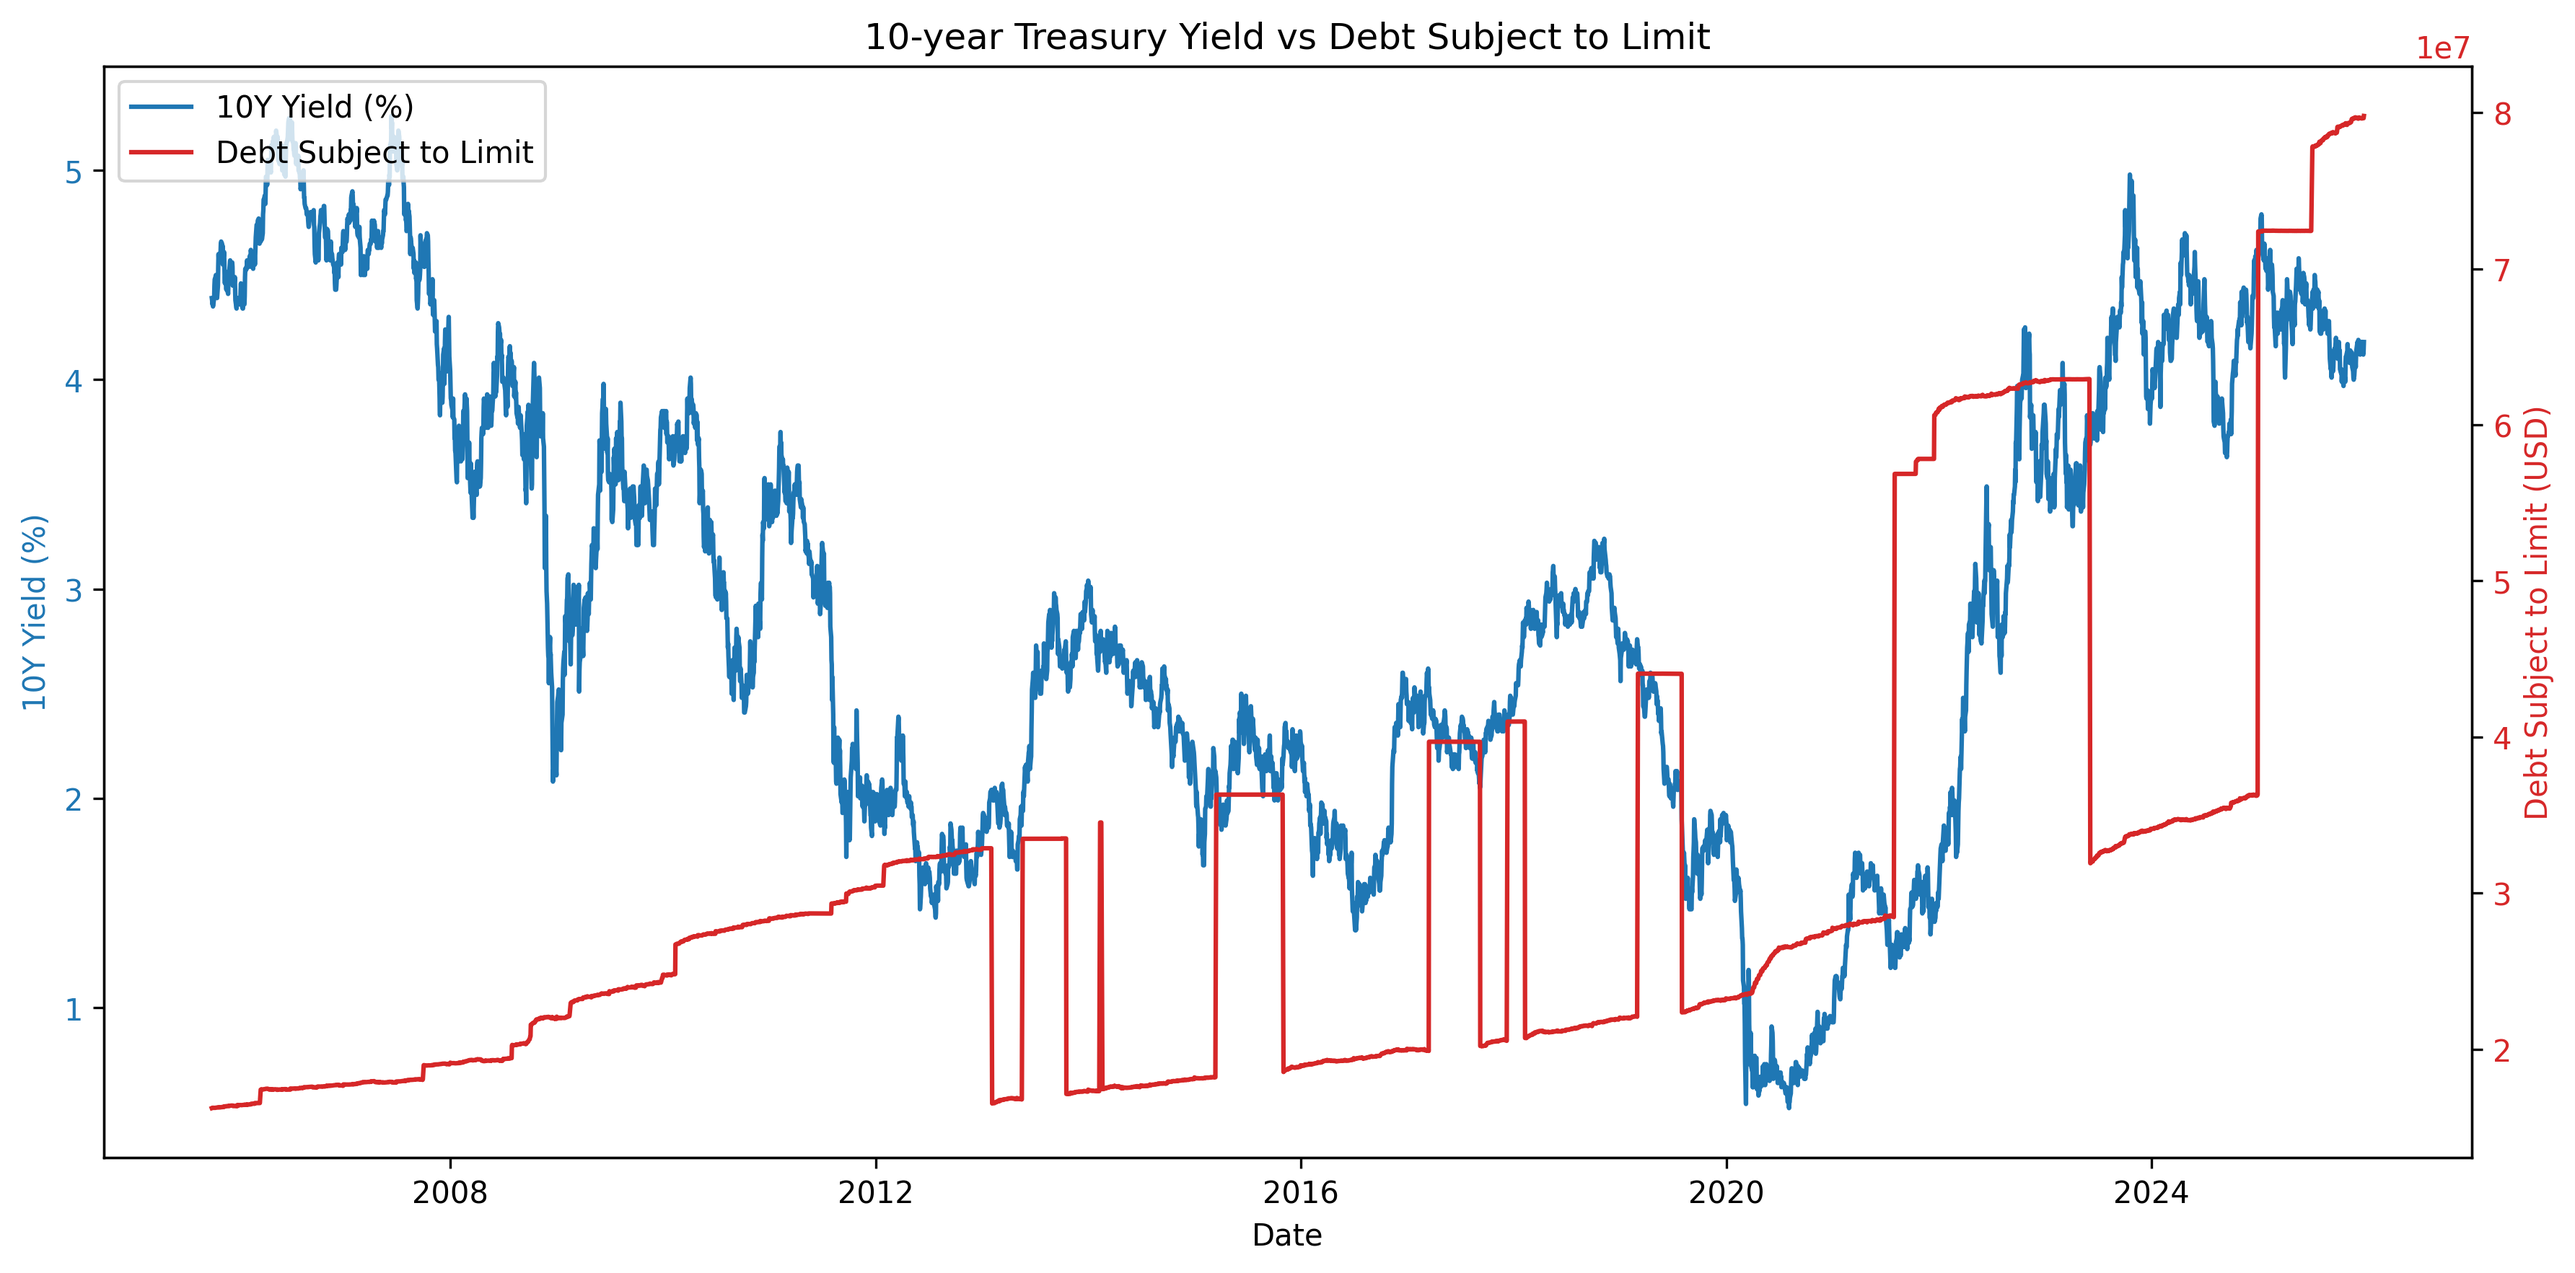
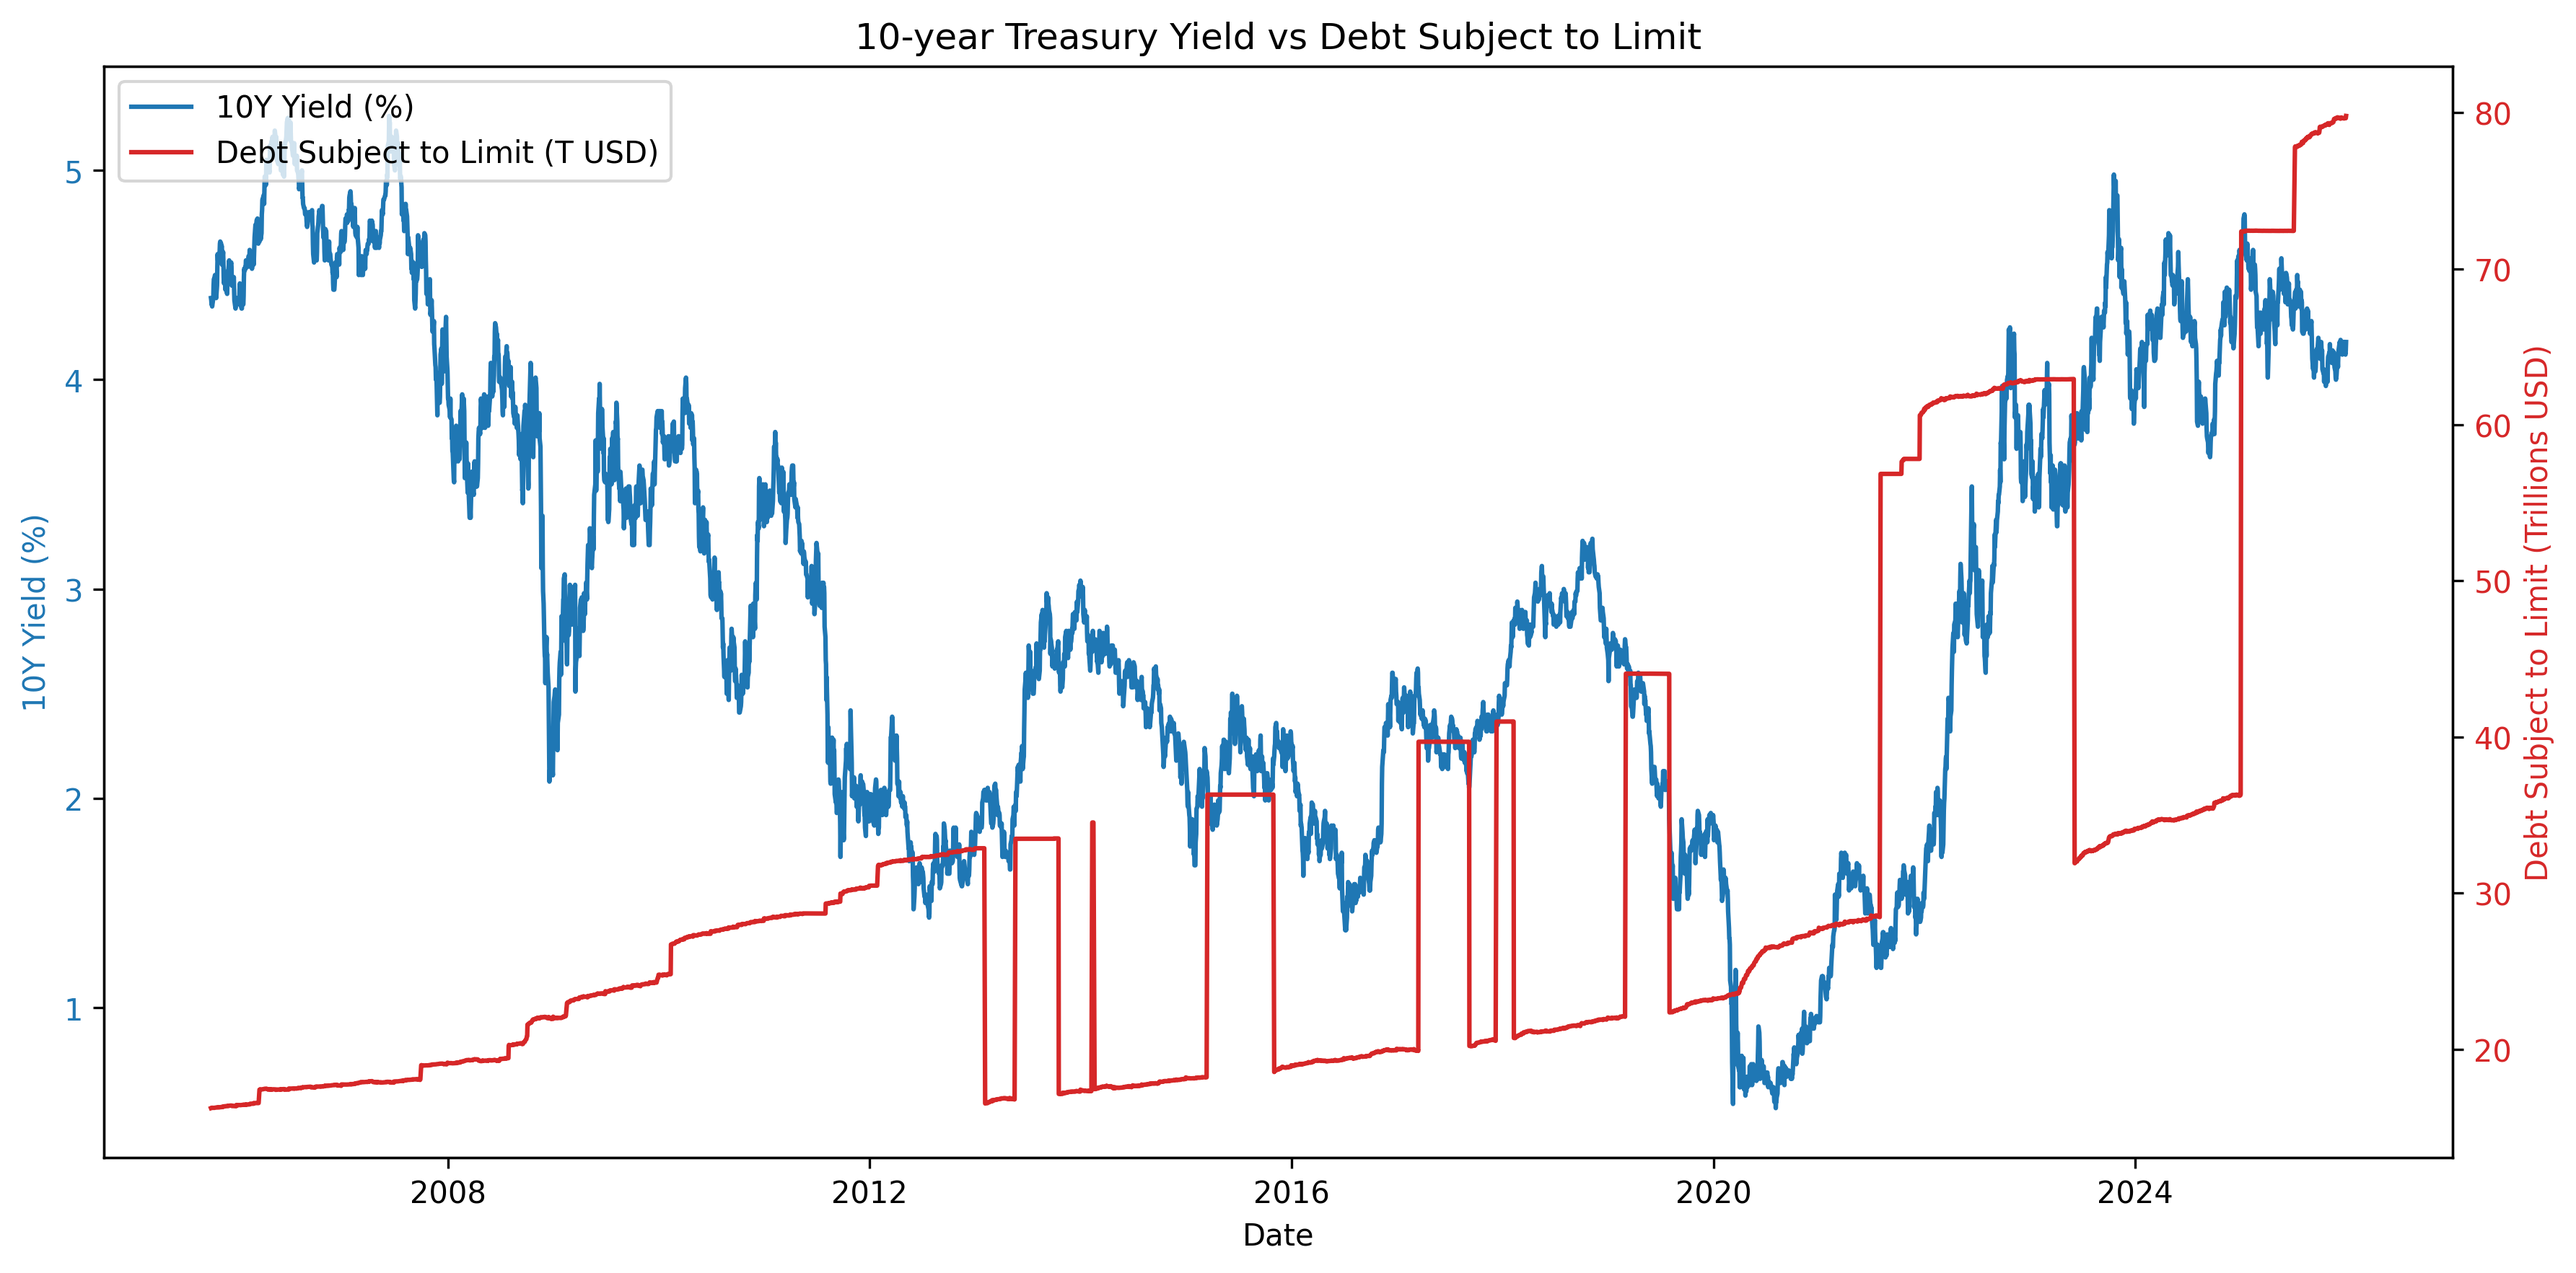
fix data aggregation and plotting and tests

diff --git a/tests/test_fiscal_data_call.py b/tests/test_fiscal_data_call.py
@@ -28,11 +28,13 @@ def test_parse_debt_subject_to_limit_filters_and_coerces():
         {
             "record_date": "2024-01-01",
             "debt_subject_to_limit": "34,000.5",
+            "debt_catg": "Debt Subject to Limit",
             "statutory_debt_limit": "35,000",
             "total_public_debt_outstanding": "33000",
         },
         {"record_date": "", "debt_subject_to_limit": "100.0"},  # missing date dropped
         {"record_date": "2024-01-02", "debt_subject_to_limit": ""},  # missing value dropped
+        {"record_date": "2024-01-03", "debt_subject_to_limit": "10", "debt_catg": "Other"},  # filtered by category
     ]
 
     cleaned = parse_debt_subject_to_limit(records)
@@ -55,8 +57,9 @@ def test_parse_debt_subject_to_limit_raises_on_bad_date():
 
 def test_parse_debt_subject_to_limit_supports_close_today_bal():
     records = [
-        {"record_date": "2024-01-01", "close_today_bal": "10"},
-        {"record_date": "2024-01-01", "close_today_bal": "5"},
+        {"record_date": "2024-01-01", "close_today_bal": "10", "debt_catg": "Debt Subject to Limit"},
+        {"record_date": "2024-01-01", "close_today_bal": "5", "debt_catg": "Debt Subject to Limit"},
+        {"record_date": "2024-01-01", "close_today_bal": "7", "debt_catg": "Other"},
     ]
     cleaned = parse_debt_subject_to_limit(records)
     assert cleaned == [
@@ -72,11 +75,13 @@ def test_get_debt_subject_to_limit_df_fetches_and_caches(monkeypatch, tmp_path):
             "record_date": "2024-01-01",
             "debt_subject_to_limit_amt": "34000.0",
             "statutory_debt_limit_amt": "35000",
+            "debt_catg": "Debt Subject to Limit",
         },
         {
             "record_date": "2024-01-02",
             "debt_subject_to_limit": "34100.0",
             "total_public_debt_outstanding_amt": "33900",
+            "debt_catg": "Debt Subject to Limit",
         },
     ]
 
@@ -93,6 +98,7 @@ def test_get_debt_subject_to_limit_df_fetches_and_caches(monkeypatch, tmp_path):
         {
             "date": [date(2024, 1, 1), date(2024, 1, 2)],
             "debt_subject_to_limit": [34000.0, 34100.0],
+            "debt_subject_to_limit_trillions": [0.034, 0.0341],
             "statutory_debt_limit": [35000.0, np.nan],
             "total_public_debt_outstanding": [np.nan, 33900.0],
         }
@@ -168,7 +174,13 @@ def test_fetch_debt_subject_to_limit_handles_query_only_next(monkeypatch):
             assert "page[number]" in params
             return DummyResponse(
                 {
-                    "data": [{"record_date": "2024-01-01", "debt_subject_to_limit": "1"}],
+                    "data": [
+                        {
+                            "record_date": "2024-01-01",
+                            "debt_subject_to_limit": "1",
+                            "debt_catg": "Debt Subject to Limit",
+                        }
+                    ],
                     "links": {"next": "&page[number]=2&page[size]=1"},
                 }
             )
@@ -176,7 +188,13 @@ def test_fetch_debt_subject_to_limit_handles_query_only_next(monkeypatch):
         assert url.endswith("debt_subject_to_limit?page[number]=2&page[size]=1")
         return DummyResponse(
             {
-                "data": [{"record_date": "2024-01-02", "close_today_bal": "2"}],
+                "data": [
+                    {
+                        "record_date": "2024-01-02",
+                        "close_today_bal": "2",
+                        "debt_catg": "Debt Subject to Limit",
+                    }
+                ],
                 "links": {"next": None},
             }
         )
@@ -185,3 +203,15 @@ def test_fetch_debt_subject_to_limit_handles_query_only_next(monkeypatch):
 
     records = fiscal_data_call.fetch_debt_subject_to_limit()
     assert len(records) == 2
+
+
+def test_load_debt_cache_df_backfills_trillions(tmp_path):
+    csv_path = tmp_path / "treasury_debt_subject_to_limit.csv"
+    pd.DataFrame(
+        {"date": [pd.Timestamp("2024-01-01")], "debt_subject_to_limit": [34000.0]}
+    ).to_csv(csv_path, index=False)
+
+    loaded = load_debt_cache_df(csv_path)
+
+    assert "debt_subject_to_limit_trillions" in loaded.columns
+    assert loaded["debt_subject_to_limit_trillions"].iloc[0] == 0.034

diff --git a/fiscal_data_call.py b/fiscal_data_call.py
@@ -14,6 +14,7 @@ from dotenv import load_dotenv
 
 FISCAL_BASE_URL = "https://api.fiscaldata.treasury.gov/services/api/fiscal_service"
 DEBT_ENDPOINT = "/v1/accounting/dts/debt_subject_to_limit"
+DEBT_TOTAL_CATEGORY = "Debt Subject to Limit"
 
 
 def get_fiscal_api_key(env_var="FISCAL_API_KEY"):
@@ -87,7 +88,11 @@ def _get_field(row: dict, aliases):
 
 
 def parse_debt_subject_to_limit(records):
-    """Normalize Treasury debt rows to {date, debt_subject_to_limit, ...} dicts."""
+    """Normalize Treasury debt rows to {date, debt_subject_to_limit, ...} dicts.
+
+    The endpoint returns multiple categories per date; we keep only the total
+    category (Debt Subject to Limit) to avoid stacking components and adjustments.
+    """
     cleaned = []
     for row in records:
         raw_date = row.get("record_date")
@@ -99,6 +104,10 @@ def parse_debt_subject_to_limit(records):
                 "close_today_bal",  # present in table III-C
             ],
         )
+        debt_category = (row.get("debt_catg") or "").strip()
+
+        if debt_category and debt_category != DEBT_TOTAL_CATEGORY:
+            continue  # keep only the consolidated total row per date
 
         if not raw_date or raw_debt in (None, "", "null"):
             continue
@@ -167,6 +176,11 @@ def load_debt_cache_df(csv_path: Path) -> pd.DataFrame:
         raise ValueError("Cache DF missing required columns")
     if df["date"].isna().any() or df["debt_subject_to_limit"].isna().any():
         raise ValueError("Cache DF contains missing date/debt_subject_to_limit")
+
+    # Backfill derived column for older cache files.
+    if "debt_subject_to_limit_trillions" not in df.columns:
+        df["debt_subject_to_limit_trillions"] = df["debt_subject_to_limit"] / 1_000_000
+
     df = df.sort_values("date").reset_index(drop=True)
     return df
 
@@ -178,6 +192,10 @@ def save_debt_cache(df: pd.DataFrame, csv_path: Path, meta_path: Path):
         raise ValueError("Refusing to cache DF missing required columns")
     if df["date"].isna().any() or df["debt_subject_to_limit"].isna().any():
         raise ValueError("Refusing to cache DF with missing date/debt_subject_to_limit")
+
+    if "debt_subject_to_limit_trillions" not in df.columns:
+        df = df.copy()
+        df["debt_subject_to_limit_trillions"] = df["debt_subject_to_limit"] / 1_000_000
 
     max_dt = pd.to_datetime(df["date"]).max()
     if pd.isna(max_dt):
@@ -228,7 +246,7 @@ def get_debt_subject_to_limit_df(cache_ttl_seconds=86400, cache_dir="cache", pag
 
         df = pd.DataFrame(cleaned)
         if df.duplicated(subset="date").any():
-            agg_map = {"debt_subject_to_limit": "sum"}
+            agg_map = {"debt_subject_to_limit": "max"}
             if "statutory_debt_limit" in df.columns:
                 agg_map["statutory_debt_limit"] = "max"
             if "total_public_debt_outstanding" in df.columns:
@@ -237,6 +255,9 @@ def get_debt_subject_to_limit_df(cache_ttl_seconds=86400, cache_dir="cache", pag
                 if col in df.columns:
                     agg_map[col] = "max"
             df = df.groupby("date", as_index=False).agg(agg_map)
+
+        # Values are reported in millions of USD; provide a trillions helper column for plotting.
+        df["debt_subject_to_limit_trillions"] = df["debt_subject_to_limit"] / 1_000_000
 
         df = df.sort_values("date").reset_index(drop=True)
 

diff --git a/plot.py b/plot.py
@@ -33,6 +33,10 @@ def build_combined_df(series_id="DGS10"):
 def main():
     df = build_combined_df()
 
+    if "debt_subject_to_limit_trillions" not in df.columns:
+        df = df.copy()
+        df["debt_subject_to_limit_trillions"] = df["debt_subject_to_limit"] / 1_000_000
+
     output_dir = Path("images")
     output_dir.mkdir(exist_ok=True)
     output_path = output_dir / "yield_vs_debt.png"
@@ -46,11 +50,11 @@ def main():
 
     ax_right.plot(
         df["date"],
-        df["debt_subject_to_limit"],
+        df["debt_subject_to_limit_trillions"],
         color="tab:red",
-        label="Debt Subject to Limit",
+        label="Debt Subject to Limit (T USD)",
     )
-    ax_right.set_ylabel("Debt Subject to Limit (USD)", color="tab:red")
+    ax_right.set_ylabel("Debt Subject to Limit (Trillions USD)", color="tab:red")
     ax_right.tick_params(axis="y", labelcolor="tab:red")
 
     ax_left.set_title("10-year Treasury Yield vs Debt Subject to Limit")

diff --git a/tests/test_plot.py b/tests/test_plot.py
@@ -17,6 +17,7 @@ def test_plot_main_saves_chart(monkeypatch, tmp_path):
             "date": pd.date_range("2024-01-01", periods=3, freq="D"),
             "yield_percent": [1.0, 1.2, 1.4],
             "debt_subject_to_limit": [34000, 34100, 34200],
+            # Intentionally omit trillions column to exercise backfill in plot.main
         }
     )
 

diff --git a/README.md b/README.md
@@ -8,8 +8,8 @@ Small practice project for pulling a FRED series, validating the response, shapi
 - Builds a sorted pandas DataFrame as the contract for downstream use.
 - Caches the cleaned DataFrame plus metadata to `cache/` with TTL checks and safe writes.
 - Provides a simple matplotlib scatter plot of the cached/fetched data and saves it to `images/dgs10_yield.png`.
-- Pulls Treasury Fiscal Data API `debt_subject_to_limit` records, normalizes them to `{date, debt_subject_to_limit, ...}`, and caches them for future joins with the FRED series.
-- Merges FRED yields with Treasury debt by date and plots them with dual y-axes (`images/yield_vs_debt.png`).
+- Pulls Treasury Fiscal Data API `debt_subject_to_limit` records (filtering to the total category only), normalizes them to `{date, debt_subject_to_limit, debt_subject_to_limit_trillions, ...}`, and caches them for future joins with the FRED series.
+- Merges FRED yields with Treasury debt by date and plots them with dual y-axes (`images/yield_vs_debt.png`), showing debt in trillions of USD.
 
 ## Data flow
 FRED API → raw JSON → validated observations → cleaned rows → pandas DataFrame → (cache | plot)
